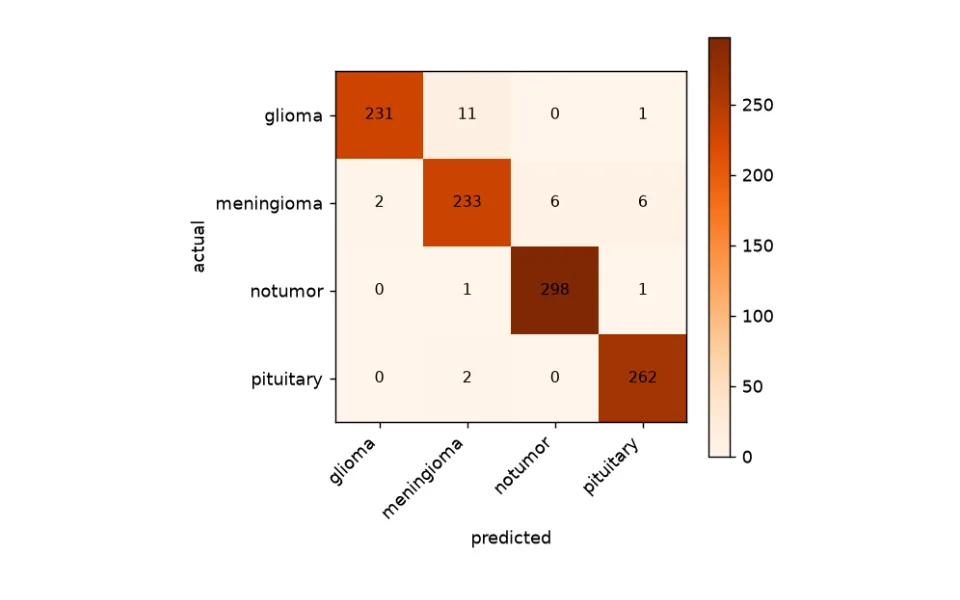
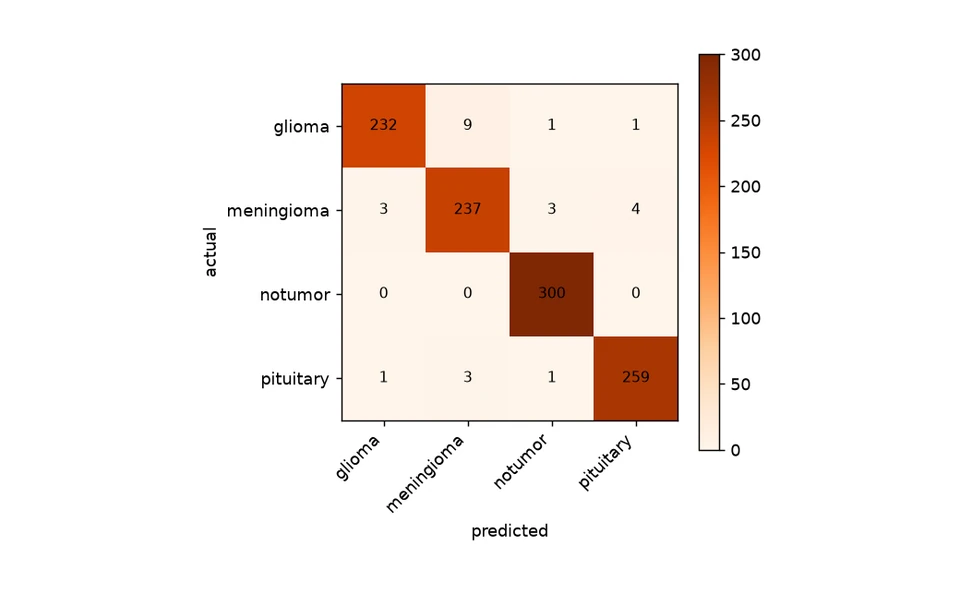
Projects: bring air quality, emotion RAG and brain tumor up to date
- Air quality: results now match its README (20 forecasts, 16 Oct - 4 Nov,
  40,871 values: 26% better than persistence, 18 of 20 days; PM2.5 +10%), 51
  tests, test-gated daily run with PC backup, live-page verification, failure
  issues and the 36 h stale banner; "verify" step added to the diagram
- Emotion RAG: demo link moved to the new Streamlit app (the old URL is a
  sleeping leftover app); CI-gated promotion and the dependency-lock lesson
- Brain tumor: live demo (free static HF Space, in-browser ONNX), browser
  inference as the key decision, CI/monitoring, transfer-learning result;
  thumbnail regenerated from the current model's confusion matrix (the old
  image was from an earlier run and showed 11 gliomas as meningioma, not 9)

diff --git a/src/data/projects.js b/src/data/projects.js
@@ -32,32 +32,33 @@ export const projects = [
       problem:
         "a forecasting model trained once and left alone quietly goes stale, and nobody notices until its forecasts are wrong. PACA's air quality needed a forecaster that keeps running on fresh data and reports when it stops being trustworthy.",
       built:
-        "the whole system, solo: a daily GitHub Actions job that pulls Geod'Air measurements for ~90 station/pollutant series, leakage-safe features, an XGBoost model that forecasts 24 h ahead recursively, scoring of every past forecast against what was measured, Evidently drift checks that open a GitHub issue, and a static page on Hugging Face. plus a FastAPI service, a Streamlit dashboard and 41 pytest tests that run on every push.",
+        "the whole system, solo: a daily GitHub Actions job (with a backup runner on my PC) that runs the tests first, pulls Geod'Air measurements for ~90 station/pollutant series, builds leakage-safe features and forecasts 24 h ahead recursively with XGBoost. it scores every past forecast against what was measured, runs Evidently drift checks that open a GitHub issue, publishes a static page on Hugging Face and checks that the live page shows the new forecast. plus a FastAPI service, a Streamlit dashboard and 51 pytest tests, with CI and a protected main branch.",
       decision:
         "i shipped XGBoost, not the Random Forest, even though the forest scored slightly better (1-hour MAE 3.66 vs 3.69). the forest is 278 MB and XGBoost is 4.8 MB, small enough to run in a free daily job and deploy without paid hosting.",
       tested:
-        "two numbers misled me. my first score was too good: the 3-hour average included the hour being predicted. using only past hours raised the 1-hour error (MAE 3.42 → 3.69) but made training match live forecasting. then the drift alarm fired every day, because live data was compared with the whole year, including stations that weren't reporting. comparing the same season and stations cut the drift share from 0.67 to 0.56.",
+        "two numbers misled me. my first score was too good: the 3-hour average included the hour being predicted. using only past hours raised the 1-hour error (MAE 3.42 → 3.69) but made training match live forecasting. then the drift alarm fired every day, because live data was compared with the whole year, including stations that weren't reporting. comparing the same season and stations cut the drift share from 0.67 to 0.56. and after a 12-day gap with no forecasts (5–16 Nov), a failed or missed run now opens a GitHub issue, the backup runner publishes if GitHub hasn't, and the page warns visitors when its forecast is over 36 hours old.",
     },
     proof:
-      "in all 19 daily checks (17 Oct – 4 Nov 2026), its 24-hour forecasts beat persistence, by 22–56%. over the latest week: 26% lower error on O₃ and NO₂ and 34% on PM10, across 14,468 scored values.",
-    aside: "PM2.5 and CO still only match persistence, and the README says so.",
+      "over 20 daily forecasts (16 Oct – 4 Nov 2026, 40,871 scored values), its 24-hour forecasts had 26% lower error than persistence (30% on PM10, 29% on NO₂, 27% on O₃) and beat it on 18 of the 20 days.",
+    aside: "PM2.5 gains only 10%, and on 2 of the 20 days it did worse than persistence. the README says so.",
     // Drawn by ArchitectureDiagram on the case study page. Nodes sit on a grid
     // (col, row); edges are [from, to, options] and run along a row or a column.
     architecture: {
       caption:
         "top: the daily pipeline on GitHub Actions. bottom: training and serving, run locally with Docker Compose. hover or tab through the steps for details.",
       groups: [
-        { label: "daily · GitHub Actions, 04:30 UTC", from: [1, 0], to: [4, 0] },
+        { label: "daily · GitHub Actions, 04:30 UTC (PC backup)", from: [1, 0], to: [4, 0] },
         { label: "local · Docker Compose", from: [1, 2], to: [4, 2] },
       ],
       nodes: [
         { id: "geodair", col: 0, row: 0, title: "Geod'Air", sub: "hourly measurements", detail: "the French national air quality database: hourly values for ~90 station/pollutant series in PACA." },
-        { id: "fetch", col: 1, row: 0, title: "fetch", sub: "download + clean", detail: "fetch_geodair.py downloads the latest days of measurements and cleans them." },
+        { id: "fetch", col: 1, row: 0, title: "fetch", sub: "tests, then download", detail: "the run starts with the test suite; if it passes, fetch_geodair.py downloads the latest measurements, backfills any missed days and cleans them." },
         { id: "forecast", col: 2, row: 0, title: "forecast", sub: "XGBoost, 24 h", detail: "make_forecasts.py predicts the next 24 hours recursively, one hour at a time, feeding each prediction back in as the next hour's input." },
         { id: "monitor", col: 3, row: 0, title: "monitor", sub: "drift + skill", detail: "monitor_drift.py scores past forecasts against what was measured, and Evidently compares live data with a same-season, same-station reference." },
         { id: "site", col: 4, row: 0, title: "build page", sub: "static HTML", detail: "build_site.py renders the station map and charts (Plotly) into one static page." },
         { id: "hf", col: 5, row: 0, title: "Hugging Face", sub: "live page", detail: "the page is published to a free Hugging Face Space: this is the live demo." },
-        { id: "issue", col: 3, row: 1, title: "GitHub issue", sub: "on drift", detail: "when drift is detected, the job opens a GitHub issue automatically." },
+        { id: "issue", col: 3, row: 1, title: "GitHub issue", sub: "on drift or failure", detail: "detected drift, or any failure in the daily run, opens a GitHub issue automatically. a failed run leaves the previous page online." },
+        { id: "verify", col: 5, row: 1, title: "verify", sub: "live page = new build", detail: "check_deployed_page.py confirms the live page really shows the new forecast. the page itself shows an out-of-date banner if its forecast is more than 36 hours old." },
         { id: "repo", col: 4, row: 1, title: "git history", sub: "data + monitoring", detail: "observations, forecasts and the monitoring history are committed back to the repository every day." },
         { id: "train", col: 1, row: 2, title: "train", sub: "MLflow runs", detail: "preprocess_data.py and train_model.py compare Random Forest and XGBoost on a chronological 80/20 split, logging runs to MLflow." },
         { id: "model", col: 2, row: 2, title: "model", sub: "XGBoost, 4.8 MB", detail: "the deployed model: XGBoost, chosen over a slightly better but 278 MB Random Forest because it is small enough to ship." },
@@ -70,6 +71,7 @@ export const projects = [
         ["forecast", "monitor"],
         ["monitor", "site"],
         ["site", "hf"],
+        ["hf", "verify"],
         ["monitor", "issue", { dashed: true, label: "drift" }],
         ["site", "repo"],
         ["train", "model"],
@@ -97,16 +99,16 @@ g["rolling_3"] = past.rolling(3, min_periods=3).mean()`,
       alt: "the Streamlit app: a photo of a smiling face uploaded for emotion detection",
     },
     link: "https://github.com/JayaSaiKishore7/Emotion_RAG_Application",
-    demo: "https://emotionragapp-2.streamlit.app/",
+    demo: "https://emotionragapplication-dmj76csbefwfku6hgnchkt.streamlit.app/",
     notes: {
       problem:
         "an emotion label on its own doesn't say why someone feels that way. the app connects a detected emotion to the customer feedback behind it.",
       built:
-        "all of it, solo: a ResNet-50 fine-tuned on FER-2013, an OpenCV face crop so the model sees the largest face, a FAISS index of 500 reviews (via LangChain) that returns the 4 closest to the detected emotion, RoBERTa sentiment scores for each review, and the Streamlit app that ties it together.",
+        "all of it, solo: a ResNet-50 fine-tuned on FER-2013, an OpenCV face crop so the model sees the largest face, a FAISS index of 500 reviews (via LangChain) that returns the 4 closest to the detected emotion, RoBERTa sentiment scores for each review, and the Streamlit app that ties it together. CI lints and smoke-tests every push and only then promotes it to the live app, so a broken commit never goes live.",
       decision:
         "i fine-tuned ResNet-50 rather than a vision transformer: with ~28,700 training images, a proven CNN trains faster and needs less data than a ViT. the vector search stays local in FAISS, because 500 reviews don't need a hosted database.",
       tested:
-        "testing changed two things. Flan-T5 was meant to summarize the retrieved reviews, but under every prompt i tried it copied them word for word, and larger models don't fit in Streamlit Cloud's memory, so i replaced it with a plain sentiment count. and the 62% headline hid the weak classes: disgust, the rarest class, was right only 2 times out of 55. per-class results told me more than the overall score.",
+        "testing changed two things. Flan-T5 was meant to summarize the retrieved reviews, but under every prompt i tried it copied them word for word, and larger models don't fit in Streamlit Cloud's memory, so i replaced it with a plain sentiment count. and the 62% headline hid the weak classes: disgust, the rarest class, was right only 2 times out of 55. per-class results told me more than the overall score. deployment taught me one more: a rebuild broke with no code change because a loosely pinned dependency (pyarrow) stopped installing, so all ~120 packages are now locked.",
     },
     proof: "62.2% accuracy on the 3,589-image FER-2013 test set (happiness 89%), with a live Streamlit demo.",
     aside: "disgust and fear are still the weak classes, and the README says so.",
@@ -122,31 +124,31 @@ answer = llm.invoke(prompt)`,
     id: "brain-tumor",
     featured: true,
     title: "Brain Tumor MRI Classifier",
-    what: "97.53% test accuracy, after augmentation first made it worse.",
-    tech: ["TensorFlow", "Keras", "CNN", "Flask"],
+    what: "97.53% test accuracy, after augmentation first made it worse. it runs in your browser, so scans never leave your device.",
+    tech: ["TensorFlow", "Keras", "ONNX Runtime Web", "Flask", "Playwright", "Hugging Face"],
     thumbnail: {
       src: "/projects/brain-tumor.webp",
       alt: "confusion matrix on the test set: nearly all scans fall on the diagonal for glioma, meningioma, no tumor and pituitary",
     },
     link: "https://github.com/JayaSaiKishore7/brain-tumor-classifier",
+    demo: "https://jayasaikishore-brain-tumor-classifier.static.hf.space/",
     notes: {
       problem:
         "sorting brain MRI slices into glioma, meningioma, pituitary tumor or no tumor, using a small dataset (7,023 images) and a CNN trained from scratch, with no pretrained weights to lean on.",
       built:
-        "everything, solo: the CNN (four conv/pool blocks, 1.3M parameters, trains on a CPU), augmentation tuned for MRI, training with early stopping and checkpointing, and a Flask site that shows the training report and classifies uploaded scans without ever saving them to disk.",
+        "everything, solo: the CNN (four conv/pool blocks, 1.3M parameters, trains on a CPU), augmentation tuned for MRI, and training with early stopping and checkpointing. the public site is a free static Hugging Face Space where the model runs in the visitor's browser, plus a Flask version with a JSON API and Grad-CAM support. CI runs lint, tests and real predictions in a headless browser on every pull request, and the live site is checked every 6 hours.",
       decision:
-        "i put augmentation and rescaling inside the model as Keras layers. Keras switches augmentation off outside training, and the Flask /predict endpoint runs exactly the same preprocessing as training, so predictions can't drift from training through mismatched preprocessing (train/serve skew).",
+        "i run the model in the visitor's browser (ONNX Runtime Web) instead of on a server: hosting is free, there's no cold start, and scans never leave the device. the risk was train/serve skew, so i ported Pillow's resize to JavaScript: on 30 full-size scans the browser's model inputs are pixel-identical to Python's, and the predictions match.",
       tested:
-        "my first augmentation pass dropped accuracy from 95.83% to 92.50%, because MRI orientation and intensity carry diagnostic signal. i checked whether it just needed longer training (it didn't: still 92.50%), then cut rotation, zoom and brightness to roughly a third (±18° → ±7°), which beat the no-augmentation baseline on every class.",
+        "my first augmentation pass dropped accuracy from 95.83% to 92.50%, because MRI orientation and intensity carry diagnostic signal. i checked whether it just needed longer training (it didn't: still 92.50%), then cut rotation, zoom and brightness to roughly a third (±18° → ±7°), which beat the no-augmentation baseline on every class. later, transfer learning with EfficientNetB0 on the same split didn't beat it (96.77% vs 97.53% test, within noise), so the simpler CNN stays.",
     },
     proof: "97.53% test accuracy on 1,054 held-out scans and 95.6% meningioma F1. the most common error: a glioma read as meningioma (9 of 243).",
     aside: "limitations are documented in the README, not claiming clinical validity.",
     frag: {
-      file: "brain-tumor-classifier / src/train.py",
-      code: `layers.RandomRotation(0.02),
-layers.RandomZoom(0.05),
-layers.RandomBrightness(0.05),
-layers.Rescaling(1.0 / 255),`,
+      file: "brain-tumor-classifier / web/static/js/preprocess.js",
+      code: `const w = bicubic((x + xmin - center + 0.5) * ss);
+k[x] = w;
+ww += w;`,
     },
   },
   {
